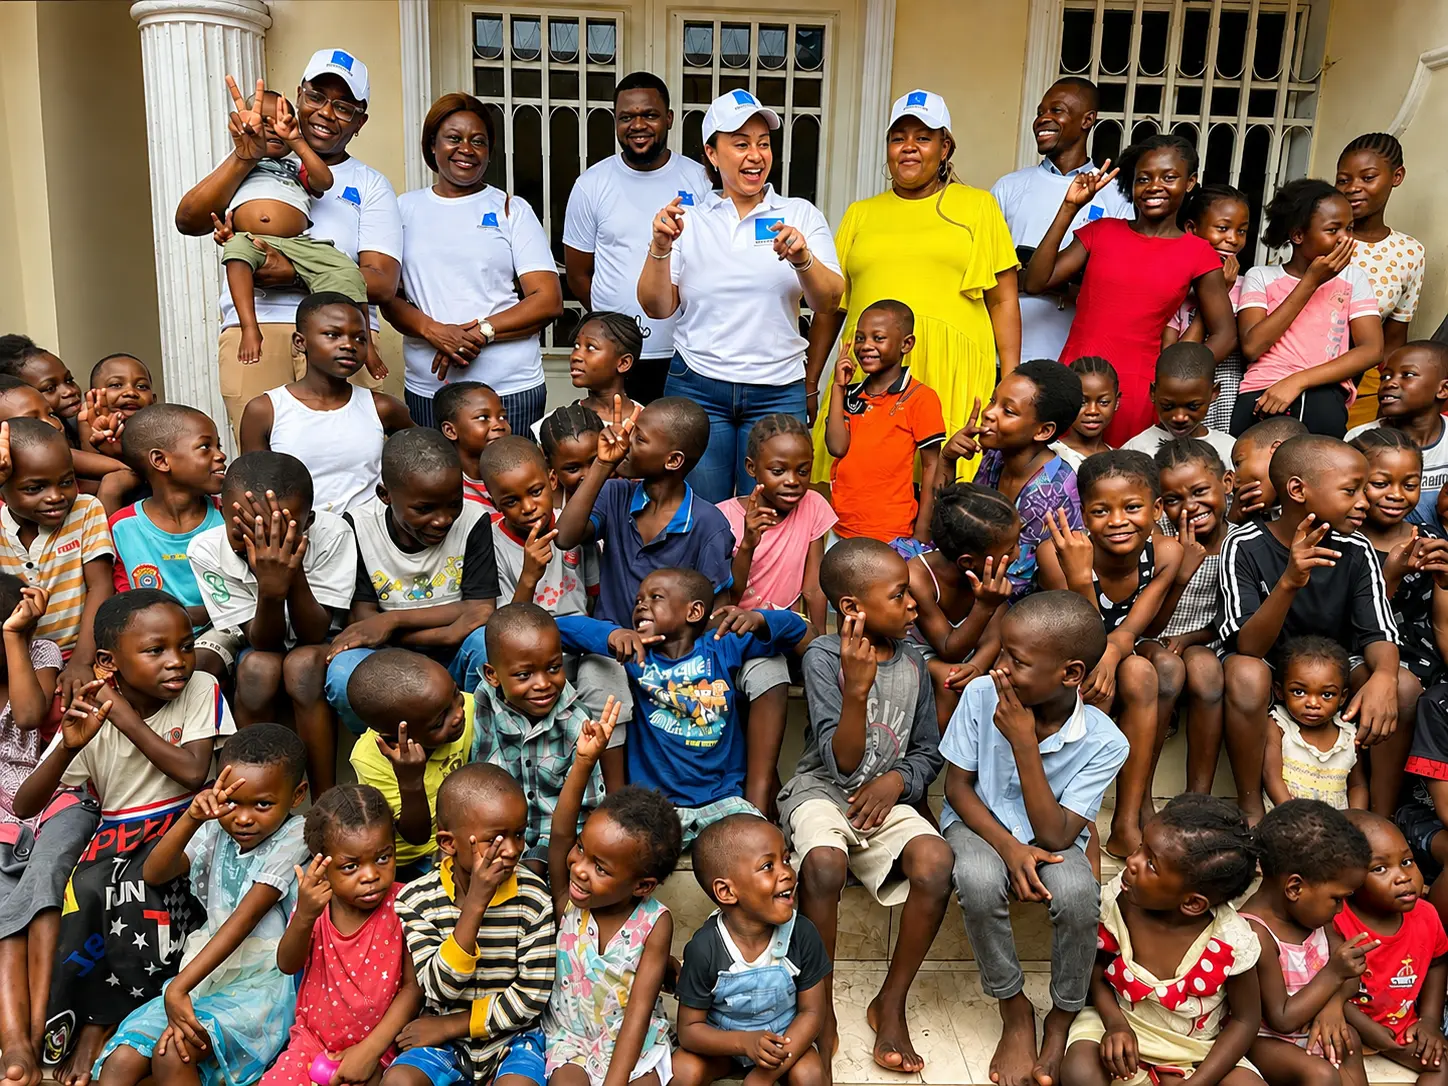
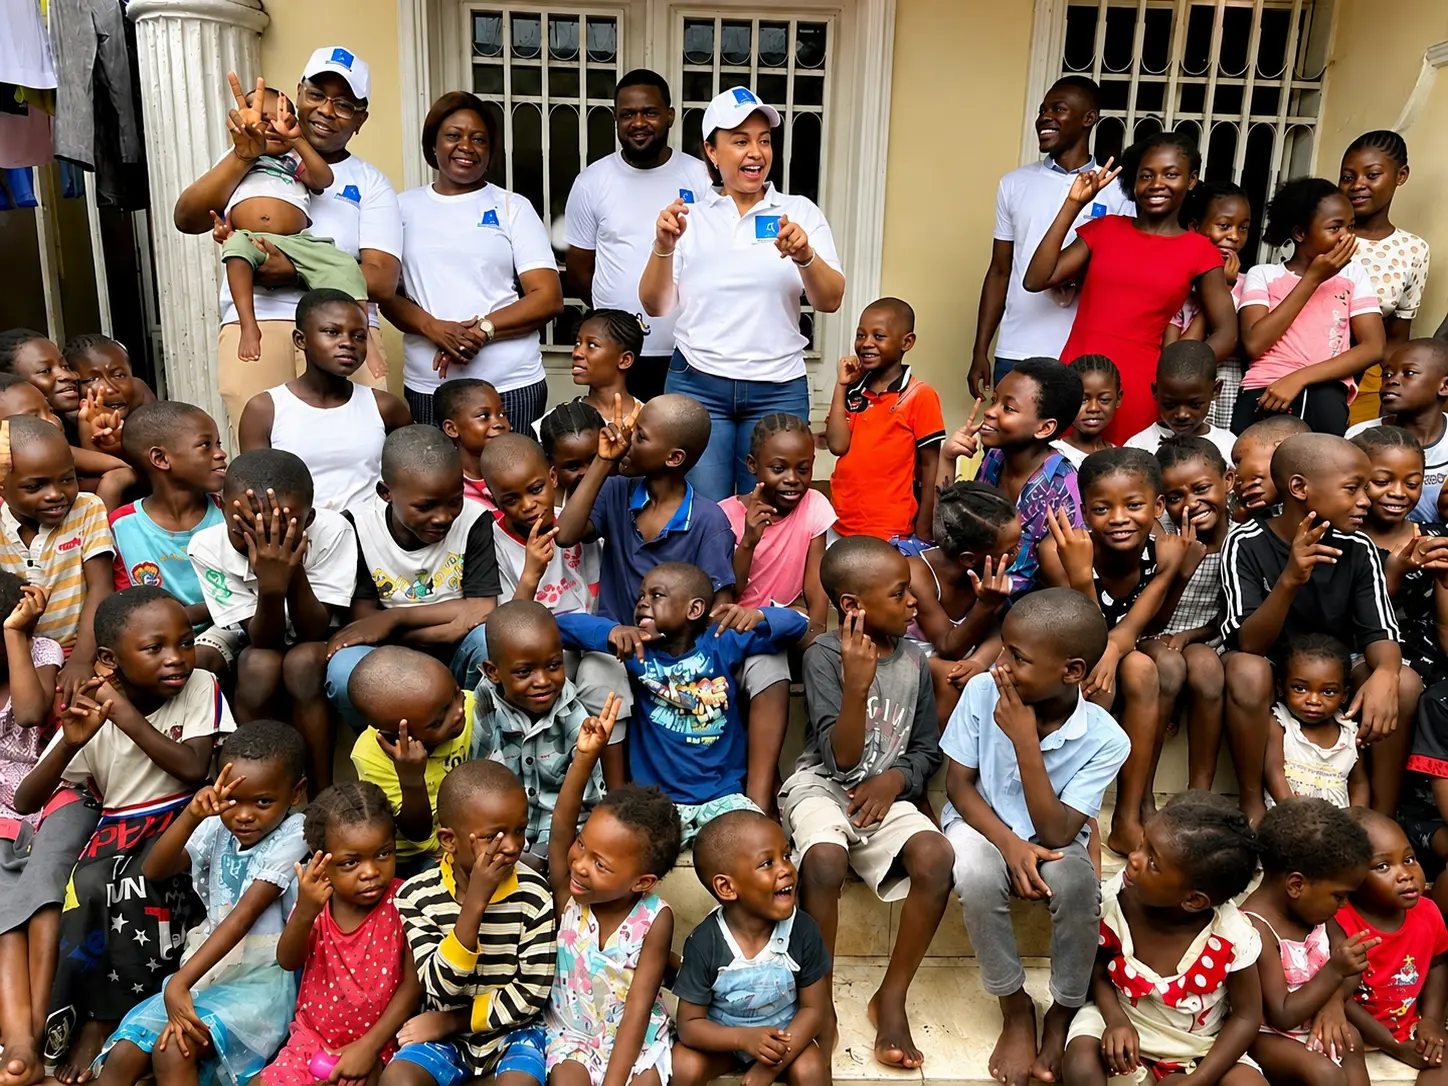
Update image references for consistency and replace outdated file
- Changed the hero image reference in the view to the new 'promotion-femmes-enfants.webp' file for accuracy.
- Deleted the old 'promotion-femme-enfant.webp' image and added the new image file to the static directory.
- Updated the HTML template to reflect the new image source, ensuring visual consistency across the application.

diff --git a/templates/home.html b/templates/home.html
@@ -112,7 +112,7 @@
                 <div class="domain-card__media">
                   <img
                     class="domain-card__image"
-                    src="{% static 'images/promotion-femme-enfant.webp' %}"
+                    src="{% static 'images/promotion-femmes-enfants.webp' %}"
                     alt="Femmes et enfants lors d’un événement communautaire à Kinshasa, RDC"
                     width="1200"
                     height="900"

diff --git a/app/views.py b/app/views.py
@@ -44,7 +44,7 @@ DOMAIN_PAGES = {
     'femme-enfant': {
         'page': 'Promotion de la Femme & Protection de l’Enfant',
         'hero_title': 'Promotion de la Femme & Protection de l’Enfant',
-        'hero_image': 'images/promotion-femme-enfant.webp',
+        'hero_image': 'images/promotion-femmes-enfants.webp',
         'hero_alt': 'Femmes et enfants accompagnés par MAPENDO MINGI',
         'article_title': 'Un engagement pour la dignité et la protection',
         'paragraphs': [
